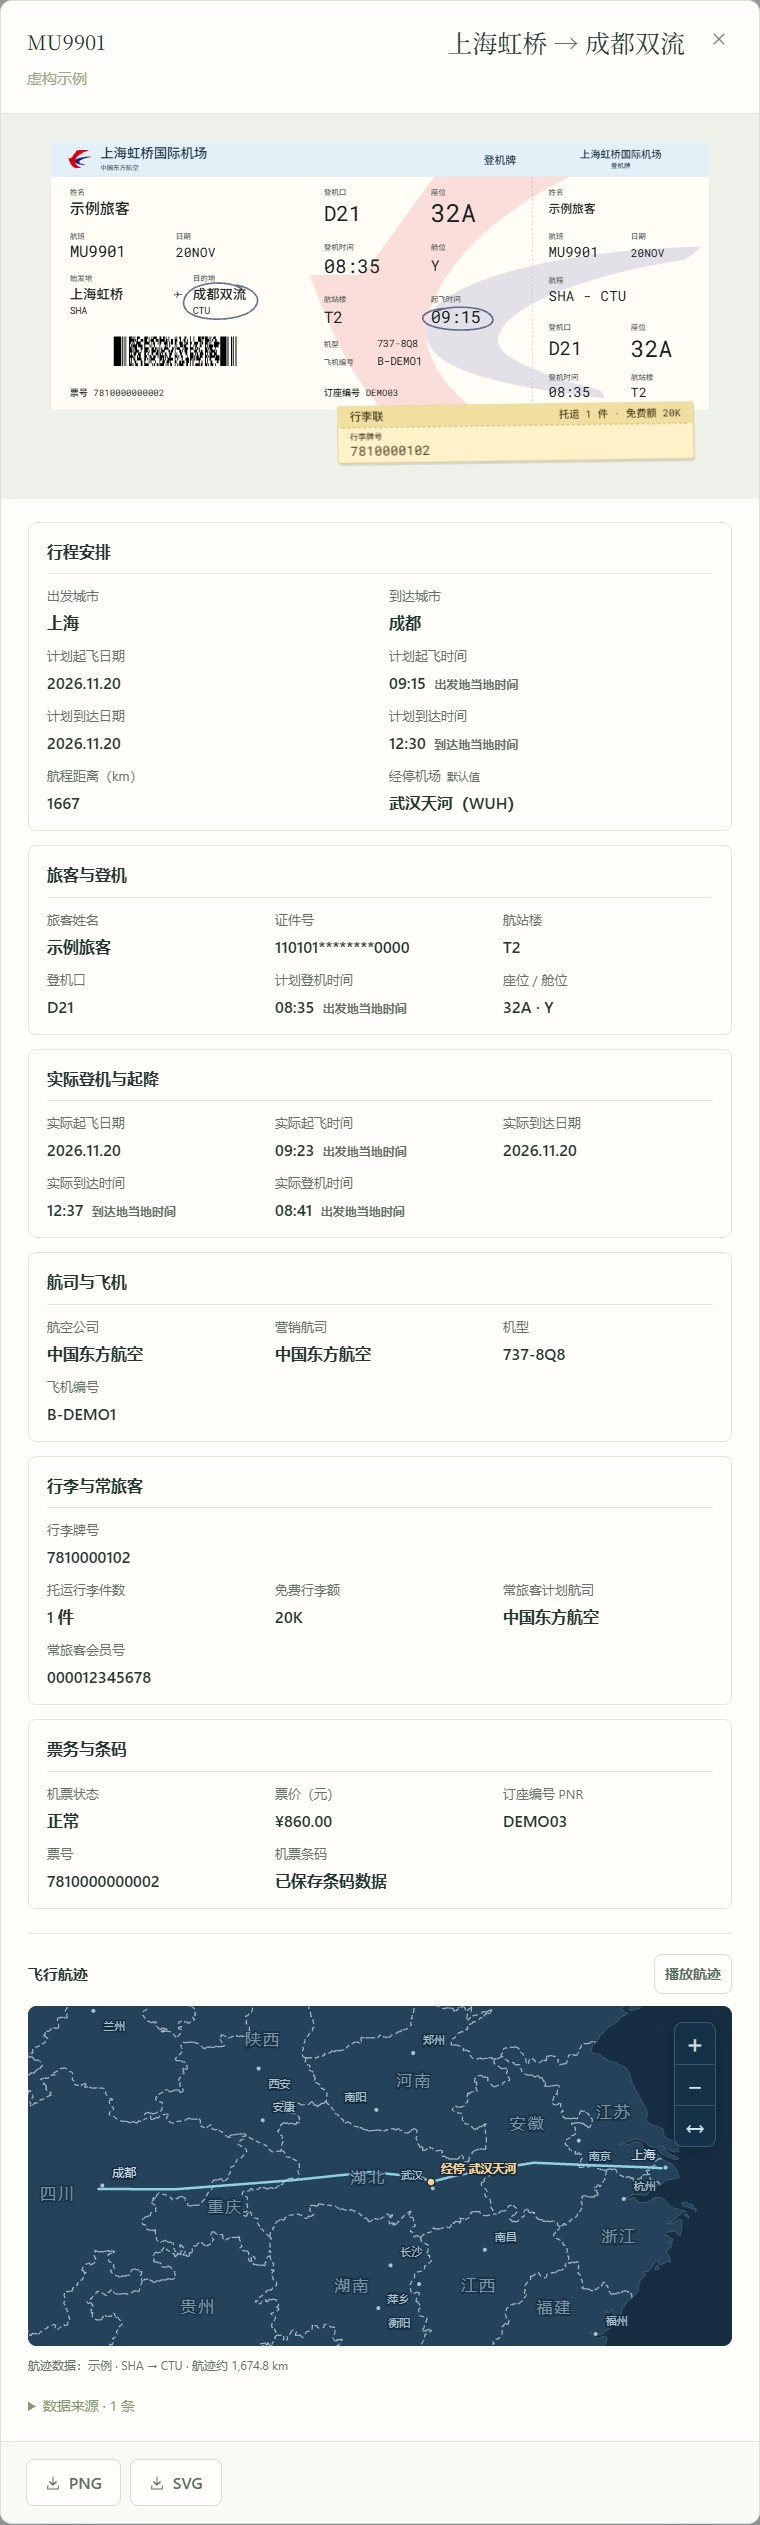
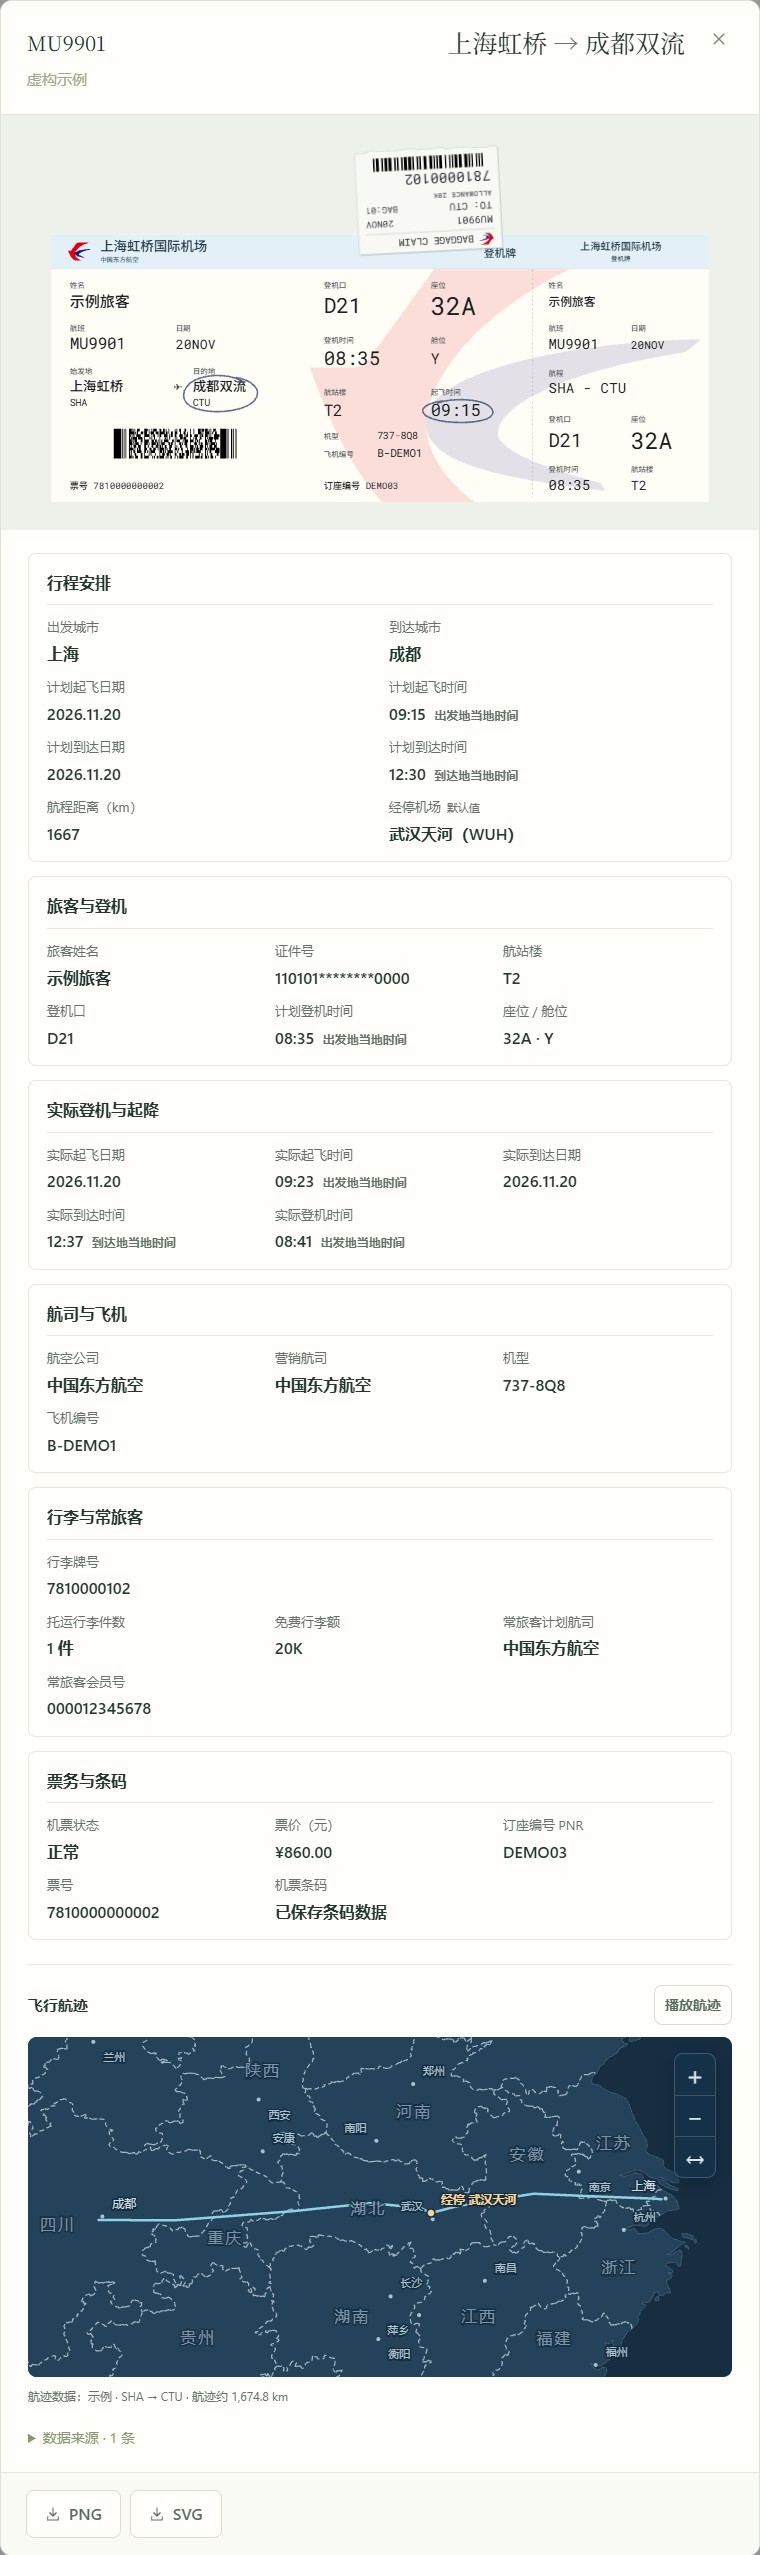
Model baggage slips on printed airline claim tags

diff --git a/src/ticket-layouts.js b/src/ticket-layouts.js
@@ -10,7 +10,7 @@ import { escape as esc } from './html.js';
 // Each historical ticket stock has its own layout and dimensions.
 import { renderMarks } from './ticket-marks.js';
 import { isLinearTicketCode, renderTicketCode } from './ticket-code.js';
-import { codeSize } from './barcode-data.js';
+import { codeSize, renderCodeData } from './barcode-data.js';
 import { uppercaseName } from './uppercase-input.js';
 import { renderBoardingCode, boardingCodeSize } from './boarding-code.js';
 import { airlineLogo } from './airline-logo.js';
@@ -32,7 +32,8 @@ const dim = Object.freeze({
   'rail-refund-receipt': Object.freeze({ width: 856, height: 540 }),
   'air-boarding-pass': Object.freeze({ width: 1230, height: 500 })
 });
-const boardingPassWithSticker = Object.freeze({ width: 1230, height: 614 });
+const baggageOverhang = 171;
+const boardingPassWithSticker = Object.freeze({ width: dim['air-boarding-pass'].width, height: dim['air-boarding-pass'].height + baggageOverhang });
 export function layoutDimensions(template, record) {
   return template === 'air-boarding-pass' && record && hasBoardingBaggage(record) ? boardingPassWithSticker : dim[template];
 }
@@ -282,46 +283,37 @@ function boardingPenCircle(field, x, y, width, height, reverse = false) {
   return `<path data-boarding-pen="${field}" aria-hidden="true" d="${outline}" fill="none" stroke="#394b73" stroke-width="3" stroke-linecap="round" opacity=".79"/>`;
 }
 
-function baggageSticker(record, chinese) {
-  if (!hasBoardingBaggage(record)) return '';
-  const { baggageTagNumbers: tags, checkedBaggageCount: count, freeBaggageAllowance: allowance } = record;
-  const title = chinese ? '行李联' : 'BAGGAGE RECEIPT';
-  const tagLabel = chinese ? '行李牌号' : 'TAG NO.';
-  const allowanceLabel = chinese ? '免费额' : 'ALLOWANCE';
-  const checked = count?.trim() && (chinese ? `托运 ${count} 件` : `CHECKED ${count} PC`);
-  const details = [checked, allowance?.trim() && `${allowanceLabel} ${allowance}`].filter(Boolean).join('  ·  ');
-  const fit = (value, width, size) => {
-    value = value.trim().replace(/\s+/g, ' ');
-    let units = textUnits(value);
-    if (units * 15 > width) {
-      let visible = '';
-      units = 1;
-      for (const char of value) {
-        if ((units + textUnits(char)) * 15 > width) break;
-        visible += char;
-        units += textUnits(char);
-      }
-      value = visible + '…';
-    }
-    return [value, Math.min(size, width / Math.max(1, units))];
-  };
-  const [tagText, tagSize] = fit(tags || '', 617, 25);
-  const [detailText, detailSize] = fit(details, 387, 19);
-  return `<g data-boarding-baggage-sticker="true" transform="translate(536 490) rotate(-.8 333 53)" fill="#3f371d">
-    <title>${esc([title, tags && `${tagLabel} ${tags}`, details].filter(Boolean).join(' · '))}</title>
-    <rect x="2" y="5" width="665" height="106" rx="4" fill="#493a17" opacity=".14"/>
-    <rect width="665" height="106" rx="4" fill="#fff1c8" stroke="#cfb97b"/>
-    <path d="M0 4Q0 0 4 0H661Q665 0 665 4V40H0Z" fill="#f1df9f"/>
-    <path d="M8 40H657" stroke="#9c8448" stroke-dasharray="5 5"/>
-    ${text(23, 27, title, 21, 'TicketHei,TicketLatin', 'font-weight="600"')}
-    ${text(642, 27, detailText, detailSize, 'TicketMono,TicketHei', 'text-anchor="end"')}
-    ${tagText ? text(23, 62, tagLabel, 15, 'TicketHei,TicketLatin') + text(23, 92, tagText, tagSize, 'TicketMono,TicketHei') :
-      text(23, 80, [record.originCode, record.destinationCode].filter(Boolean).join(' → '), 24, 'TicketMono,TicketHei')}
+function baggageSticker(record, departureDate, mark) {
+  const tags = record.baggageTagNumbers?.trim() || '';
+  const barcodeTag = /\b\d{10}\b/.exec(tags)?.[0];
+  const count = record.checkedBaggageCount?.trim();
+  const allowance = record.freeBaggageAllowance?.trim();
+  const code = barcodeTag && renderCodeData({
+    version: 1, format: 'ITF', rawBytes: btoa(barcodeTag), symbologyIdentifier: ']I0',
+    eci: [], gs1: false, parameters: {}
+  }, { x: 8, y: 151, width: 250, height: 33, stretch: true, marker: 'baggage-tag-code' });
+  const outline = 'M1 2H268V191L247 191L241 194L202 192L157 195L151 192L103 194L99 191L57 193L49 190L1 192Z';
+  const number = barcodeTag || ([...tags].length > 36 ? [...tags].slice(0, 35).join('') + '…' : tags);
+  return `<g data-boarding-baggage-sticker="true" transform="translate(570 8) rotate(177 135 98)" fill="#26282a">
+    <title>${esc(['行李提取联', tags, count && `托运 ${count} 件`, allowance && `免费行李额 ${allowance}`].filter(Boolean).join(' · '))}</title>
+    <path d="${outline}" transform="translate(-2 -3)" fill="#273136" opacity=".15"/>
+    <path d="${outline}" fill="#f8f8f5" stroke="#cacdca"/>
+    ${mark ? `<image data-baggage-airline-logo="true" x="16" y="6" width="27" height="27" preserveAspectRatio="xMidYMid meet" href="${mark.image}"/>` : ''}
+    ${text(mark ? 53 : 16, 27, 'BAGGAGE CLAIM', 18, 'TicketMono')}
+    <path d="M15 38H253" stroke="#c0c2be"/>
+    ${text(16, 63, record.service, 19, 'TicketMono')}
+    ${text(253, 63, departureDate, 17, 'TicketMono', 'text-anchor="end"')}
+    ${text(16, 88, record.destinationCode && `TO: ${record.destinationCode}`, 19, 'TicketMono')}
+    ${text(253, 88, count && `BAG:${count.padStart(2, '0')}`, 17, 'TicketMono', 'text-anchor="end"')}
+    ${text(16, 110, allowance && `ALLOWANCE ${allowance.slice(0, 16)}`, 14, 'TicketMono')}
+    ${text(16, code ? 147 : 151, number, Math.min(27, 236 / Math.max(1, textUnits(number))), 'TicketMono', 'font-weight="700"')}
+    ${code || ''}
   </g>`;
 }
 
 function flight(r) {
   const presentation = boardingPresentation(r), words = presentation.words;
+  const hasSticker = hasBoardingBaggage(r);
   const inactive = isInactiveFlight(r), open = r.flightStatus === 'open';
   const statusLabel = presentation.language === 'zh' ? open ? 'OPEN / 未定航班' : 'VOID / 无效票' : open ? 'OPEN / UNDATED' : 'VOID / INVALID';
   const service = r.service || (open ? 'OPEN' : '');
@@ -366,7 +358,7 @@ function flight(r) {
   const code = !codeSize ? '' : portraitCode
     ? `<g data-boarding-code-position="horizontal" transform="translate(35 432) rotate(-90)">${renderBoardingCode(r, 0, 0, 82, 394)}</g>`
     : `<g data-boarding-code-position="horizontal">${renderBoardingCode(r, 35, 350, 394, 82)}</g>`;
-  return `<g data-boarding-language="${presentation.language}" lang="${presentation.language === 'zh' ? 'zh-CN' : 'en'}"><rect width="1230" height="500" rx="3" fill="#fffdf6"/>
+  return `<g data-boarding-language="${presentation.language}" lang="${presentation.language === 'zh' ? 'zh-CN' : 'en'}"><g${hasSticker ? ` transform="translate(0 ${baggageOverhang})"` : ''}><rect width="1230" height="500" rx="3" fill="#fffdf6"/>
   <path data-boarding-header-paper="true" d="M3 0h1224q3 0 3 3v61H0V3q0-3 3-3" fill="#e4f0f7"/>
   <path d="M0 64h1230" stroke="#cbdde6"/>
   ${mark ? `<metadata>Airline mark: ${esc(mark.source || 'Soaring Symbols 0.4.1 (https://github.com/soaring-symbols/soaring-symbols)')}. Marks belong to their respective airlines.</metadata><svg data-airline-watermark="${logo.code}" x="0" y="65" width="1230" height="435" overflow="hidden" aria-hidden="true"><image x="475" y="-150" width="748" height="730" preserveAspectRatio="xMidYMid meet" opacity=".12" href="${mark.image}"/></svg>` : ''}
@@ -404,7 +396,7 @@ function flight(r) {
       ${label(930, 351, words.gate)}${label(1084, 351, words.seat)}${printed(930, 398, r.gate, 35, 125)}${printed(1084, 401, r.seat, 43, 120)}
       ${label(930, 444, words.boarding)}${label(1084, 444, words.terminal)}${printed(930, 477, r.boardingTime, 26, 140)}${printed(1084, 477, r.terminal, 25, 120)}
     </g>
-  </g>${baggageSticker(r, presentation.language === 'zh')}</g>`;
+  </g></g>${hasSticker ? baggageSticker(r, date(r.departureDate), mark) : ''}</g>`;
 }
 
 export function renderTicket(record) {

diff --git a/src/barcode-data.js b/src/barcode-data.js
@@ -1,5 +1,6 @@
 import bwip from 'bwip-js/generic';
-const FORMATS = new Map([['QRCode', 'qrcode'], ['MicroQRCode', 'microqrcode'], ['PDF417', 'pdf417'], ['Aztec', 'azteccode'], ['DataMatrix', 'datamatrix'], ['Code128', 'code128']]);
+const FORMATS = new Map([['QRCode', 'qrcode'], ['MicroQRCode', 'microqrcode'], ['PDF417', 'pdf417'], ['Aztec', 'azteccode'], ['DataMatrix', 'datamatrix'], ['Code128', 'code128'], ['ITF', 'interleaved2of5']]);
+const linearFormats = new Set(['Code128', 'ITF']);
 export const MAX_CODE_BYTES = 8192;
 const encode = bytes => btoa(Array.from(bytes, value => String.fromCharCode(value)).join(''));
 export function codeBytes(value) {
@@ -24,6 +25,7 @@ export function normalizeCodeData(value, formats = FORMATS) {
   if (value.format === 'QRCode' && ((symbolVersion && !/^(?:[1-9]|[1-3][0-9]|40)$/.test(symbolVersion)) || (errorCorrectionLevel && !/^[LMQH]$/.test(errorCorrectionLevel)))) throw new Error('二维码生成参数无效');
   if (value.format === 'MicroQRCode' && ((symbolVersion && !/^M[1-4]$/.test(symbolVersion)) || (mask !== null && mask > 3))) throw new Error('二维码生成参数无效');
   if (value.format === 'Code128' && bytes.length > 500) throw new Error('条码原始数据过长');
+  if (value.format === 'ITF' && (bytes.length !== 10 || bytes.some(byte => byte < 48 || byte > 57))) throw new Error('行李牌号须为 10 位数字');
   return { version: 1, format: value.format, rawBytes: value.rawBytes, symbologyIdentifier: value.symbologyIdentifier, gs1: value.gs1, eci, parameters: { symbolVersion, errorCorrectionLevel, mask } };
 }
 export function codeDataFromResult(result) {
@@ -77,14 +79,14 @@ export function symbolFromCodeData(value) {
   cache.set(key, symbol); return symbol;
 }
 export function codeSize(value) {
-  const code = normalizeCodeData(value), symbol = symbolFromCodeData(code), quiet = ['Code128', 'PDF417'].includes(code.format) ? 8 : 4;
+  const code = normalizeCodeData(value), symbol = symbolFromCodeData(code), quiet = linearFormats.has(code.format) || code.format === 'PDF417' ? 8 : 4;
   return { width: symbol.width + quiet * 2, height: symbol.height + quiet * 2, quiet };
 }
 // Only payload and encoding parameters are persisted. Matrices and SVG paths exist in memory at display time.
 export function renderCodeData(value, { x = 0, y = 0, width = '100%', height = '100%', marker = '', className = '', stretch = false } = {}) {
   const code = normalizeCodeData(value); if (!code) return '';
   const symbol = symbolFromCodeData(code), size = codeSize(code), paths = [];
-  const rowHeight = code.format === 'Code128' ? symbol.height : 1;
+  const rowHeight = linearFormats.has(code.format) ? symbol.height : 1;
   for (let row = 0; row < symbol.height; row += rowHeight) for (let col = 0; col < symbol.width;) {
     if ((symbol.data[row * symbol.width + col] ?? 255) >= 128) { col++; continue; }
     const start = col; while (col < symbol.width && symbol.data[row * symbol.width + col] < 128) col++;

diff --git a/src/styles.css b/src/styles.css
@@ -716,6 +716,7 @@ p.flight-local-time{margin:-4px 0 13px}
 .space-sphere-wire{position:absolute;left:0;top:0;width:0;height:0;transform-style:preserve-3d;pointer-events:none}.space-sphere-ring{position:absolute;left:-235px;top:-235px;width:470px;height:470px;border:1px solid #77bab845;border-radius:50%;pointer-events:none}.space-ticket-current .space-ticket-face{box-shadow:0 0 0 1px #d3dfbb99,0 0 25px #d2e6b92b}
 .ticket-face{position:relative;width:100%;margin-bottom:18px;line-height:0}.ticket-face .ticket-preview{margin:0!important}.ticket-face>.card-select{position:absolute;left:5px;top:5px;z-index:1;min-width:22px;min-height:22px;padding:2px;background:#fffefad9;border-radius:4px;line-height:1}.ticket-face>.card-select input{width:16px;height:16px}
 .ticket-face[data-ticket-type=flight]>.card-select{left:auto;right:5px}
+.ticket-face:has(.ticket-preview>svg[data-ticket-has-sticker])>.card-select{top:calc(100% * 171 / 671 + 5px)}
 .ticket-collection[data-faces-only=true] .card-top{display:none}.ticket-collection[data-faces-only=true] .ticket-face{margin:0}
 .ticket-list-date{line-height:1.2;gap:2px}.ticket-list-person,.ticket-list-seat{white-space:nowrap;text-overflow:ellipsis;overflow:hidden}
 .ticket-list-route>span:not(.route-arrow){white-space:nowrap;overflow:hidden;text-overflow:ellipsis;min-width:0;max-width:calc(50% - 12px)}

diff --git a/tests/boarding-metadata.test.js b/tests/boarding-metadata.test.js
@@ -45,7 +45,10 @@ test('individually archived legs retain their barcode metadata and display links
   const withoutBaggage = { ...rows[0], baggageTagNumbers: '', checkedBaggageCount: '', freeBaggageAllowance: '' };
   assert.doesNotMatch(ticketSVG(withoutBaggage), /data-boarding-baggage-sticker/);
   assert.ok(ticketDimensions(rows[0]).height > ticketDimensions(withoutBaggage).height);
-  assert.match(ticketSVG({ ...withoutBaggage, freeBaggageAllowance: '20K' }), /免费额 20K/);
+  assert.match(ticketSVG({ ...withoutBaggage, freeBaggageAllowance: '20K' }), /ALLOWANCE 20K/);
+  assert.match(ticketSVG(rows[0]), /data-baggage-tag-code="reencoded"/);
+  assert.doesNotMatch(ticketSVG({ ...withoutBaggage, freeBaggageAllowance: '20K' }), /data-baggage-tag-code/);
+  assert.match(ticketSVG({ ...rows[0], airline: '中国国际航空' }), /data-baggage-airline-logo="true"/);
   assert.throws(()=>createRecord({...second,boardingLegIndex:'3'}),/航段/);
   assert.throws(()=>createRecord({type:'flight',template:'air-boarding-pass',checkedBaggageCount:'-1'}),/行李件数/);
   assert.throws(()=>createRecord({type:'flight',template:'air-boarding-pass',checkedBaggageCount:'1.5'}),/行李件数/);

diff --git a/tests/ticket-export.test.js b/tests/ticket-export.test.js
@@ -19,7 +19,7 @@ test('A4 packing preserves every ticket in order, ratio and safe printable bound
     for (const page of pages) {
       for (const item of page) {
         const flight = item.record.type === 'flight';
-        const ratio = flight ? 1230 / (item.record.baggageTagNumbers ? 614 : 500) : item.record.template.includes('red') ? 900 / 600 : 856 / 540;
+        const ratio = flight ? 1230 / (item.record.baggageTagNumbers ? 671 : 500) : item.record.template.includes('red') ? 900 / 600 : 856 / 540;
         assert.ok(Math.abs(item.width / item.height - ratio) < 0.00001);
         const a = Math.abs(item.angle) * Math.PI / 180;
         const halfW = (item.width * Math.cos(a) + item.height * Math.sin(a)) / 2;
